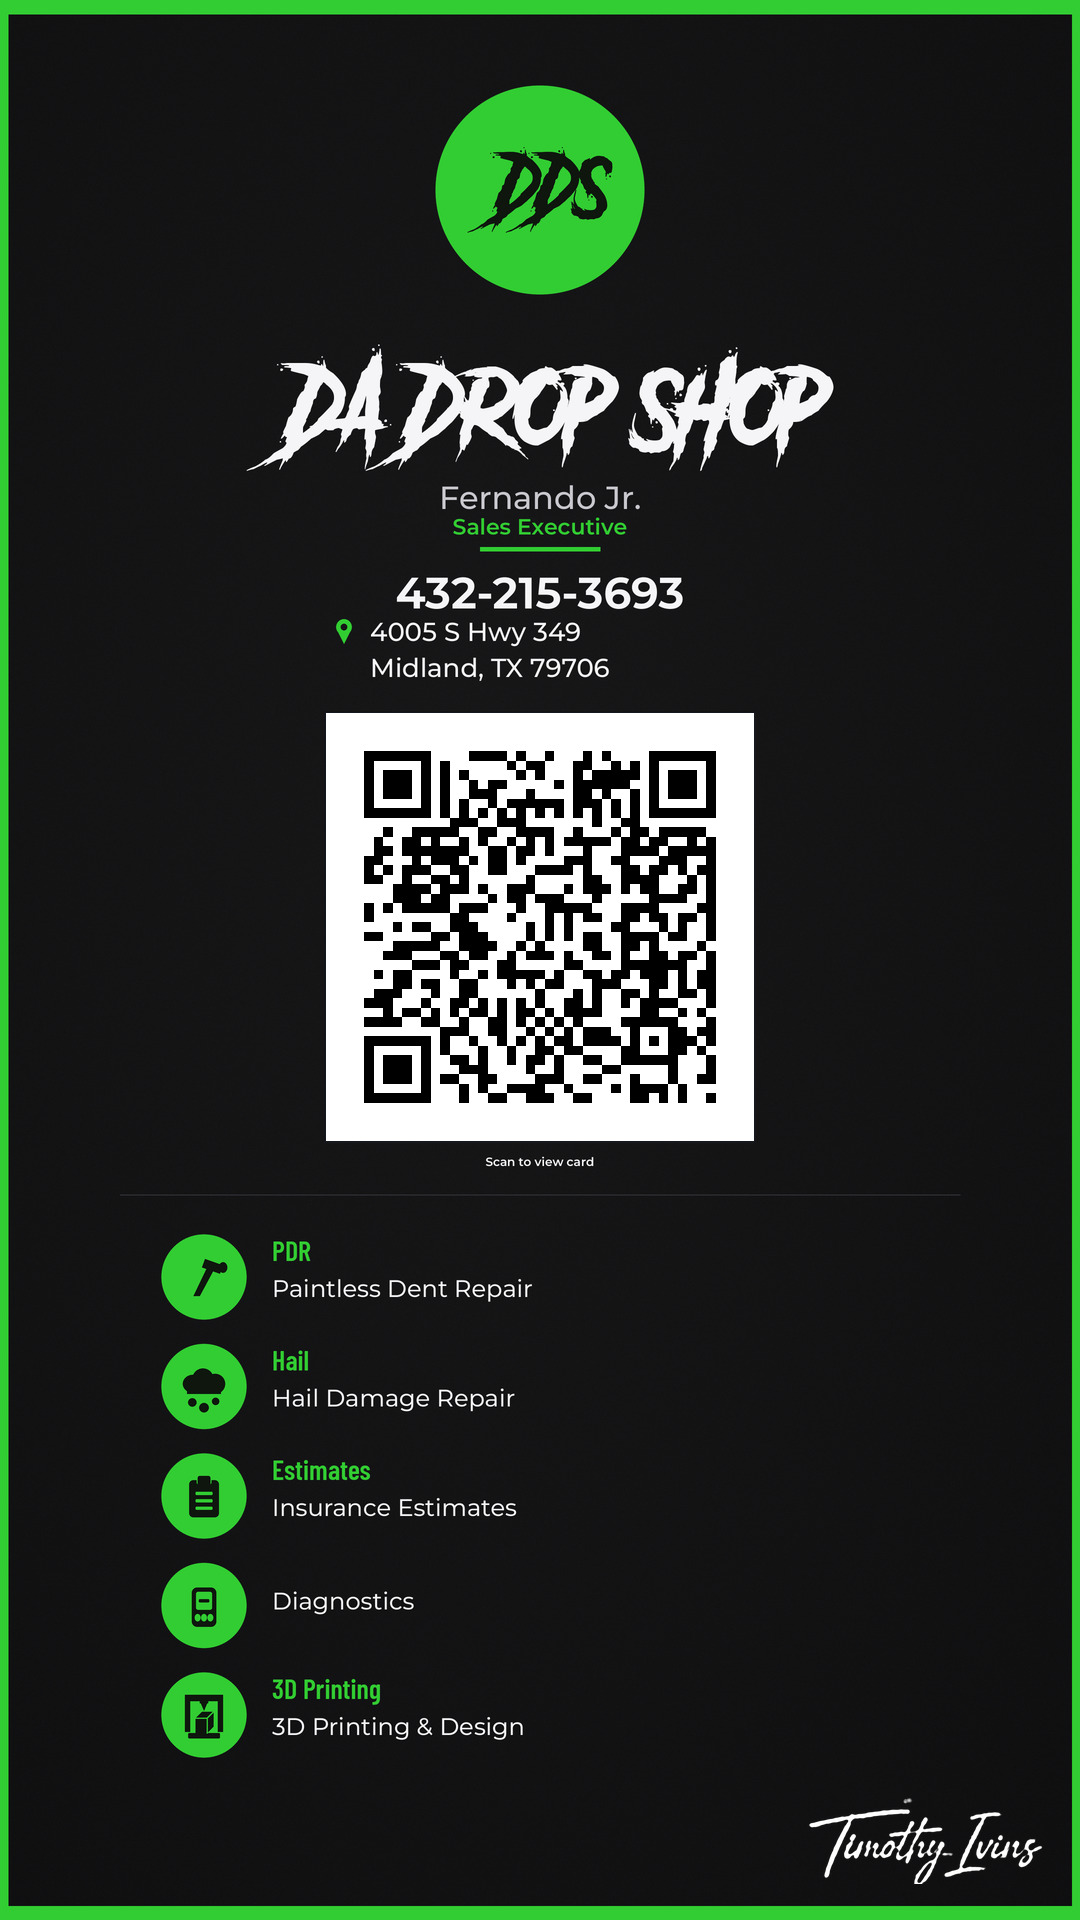
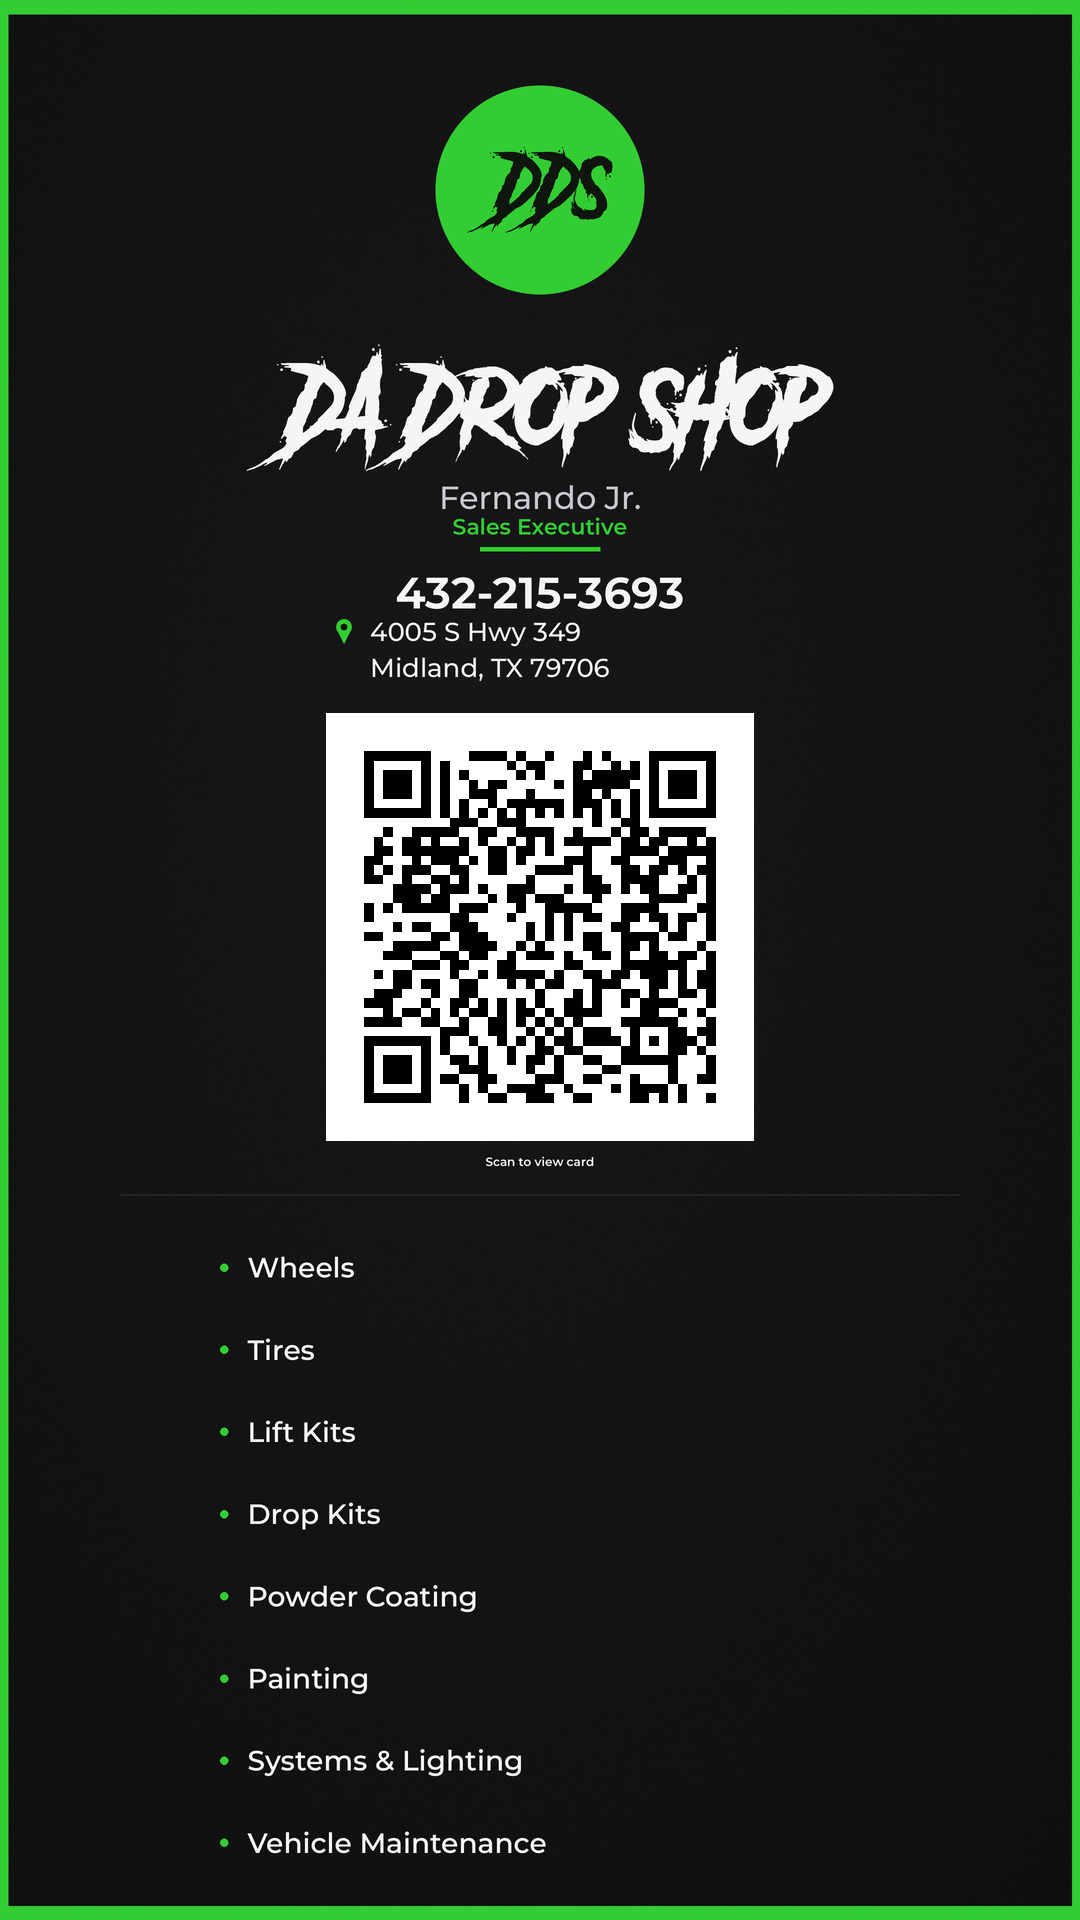
Update Fernando Jr. card: new services under the QR, no signature
Services are now wheels, tires, lift kits, drop kits, powder coating, painting, systems and lighting, and vehicle maintenance.

diff --git a/index.html b/index.html
@@ -5,7 +5,7 @@
 <meta name="viewport" content="width=device-width, initial-scale=1, viewport-fit=cover">
 <meta name="author" content="Timothy Ivins">
 <meta name="copyright" content="© 2026 Timothy Ivins">
-<meta name="description" content="Digital business card for Da Drop Shop, Fernando Jr., Sales Executive. Services: PDR paintless dent repair, hail damage repair, insurance estimates, diagnostics, and 3D printing and design. Design by Timothy Ivins.">
+<meta name="description" content="Digital business card for Da Drop Shop, Fernando Jr., Sales Executive. Services: wheels, tires, lift kits, drop kits, powder coating, painting, systems and lighting, and vehicle maintenance. Design by Timothy Ivins.">
 <meta name="theme-color" content="#32CD32">
 <title>Da Drop Shop - Fernando Jr.</title>
 <link rel="canonical" href="https://fernsjr.github.io/dadropshop-card/">
@@ -14,7 +14,7 @@
 <meta property="og:type" content="website">
 <meta property="og:site_name" content="Da Drop Shop">
 <meta property="og:title" content="Da Drop Shop - Fernando Jr., Sales Executive">
-<meta property="og:description" content="Sales Executive at Da Drop Shop. Paintless Dent Repair, hail damage, insurance estimates, diagnostics, and 3D printing and design. Midland, TX.">
+<meta property="og:description" content="Sales Executive at Da Drop Shop. Wheels, tires, lift kits, drop kits, powder coating, painting, systems and lighting, and vehicle maintenance. Midland, TX.">
 <meta property="og:url" content="https://fernsjr.github.io/dadropshop-card/">
 <meta property="og:image" content="https://fernsjr.github.io/dadropshop-card/og-image.jpg">
 <meta property="og:image:alt" content="Da Drop Shop business card, Fernando Jr., Sales Executive">
@@ -22,7 +22,7 @@
 <meta property="og:image:height" content="630">
 <meta name="twitter:card" content="summary_large_image">
 <meta name="twitter:title" content="Da Drop Shop - Fernando Jr., Sales Executive">
-<meta name="twitter:description" content="Sales Executive at Da Drop Shop. Paintless Dent Repair, hail damage, insurance estimates, diagnostics, and 3D printing and design. Midland, TX.">
+<meta name="twitter:description" content="Sales Executive at Da Drop Shop. Wheels, tires, lift kits, drop kits, powder coating, painting, systems and lighting, and vehicle maintenance. Midland, TX.">
 <meta name="twitter:image" content="https://fernsjr.github.io/dadropshop-card/og-image.jpg">
 <style>
 * { box-sizing: border-box; margin: 0; padding: 0; }
@@ -71,7 +71,32 @@ html, body {
   text-decoration: none;
   font-size: 15px;
   line-height: 1.4;
-  margin: 8px 0 28px;
+  margin: 8px 0 24px;
+}
+.services {
+  list-style: none;
+  text-align: left;
+  max-width: 320px;
+  margin: 0 auto 28px;
+  display: grid;
+  grid-template-columns: 1fr 1fr;
+  gap: 8px 16px;
+}
+.services li {
+  position: relative;
+  padding-left: 16px;
+  font-size: 15px;
+  color: #f5f5f7;
+}
+.services li::before {
+  content: "";
+  position: absolute;
+  left: 0;
+  top: 0.55em;
+  width: 7px;
+  height: 7px;
+  border-radius: 50%;
+  background: #32CD32;
 }
 .more {
   display: grid;
@@ -83,11 +108,6 @@ html, body {
   width: 100%;
   height: auto;
   border-radius: 8px;
-  display: block;
-}
-.sig {
-  width: 140px;
-  margin: 8px 0 0 auto;
   display: block;
 }
 .foot {
@@ -104,11 +124,20 @@ html, body {
     <a class="btn secondary" href="https://maps.google.com/?q=4005+S+Hwy+349,+Midland,+TX+79706">Directions</a>
     <a class="btn secondary" href="FernandoJr.vcf" download="FernandoJr.vcf">Save Contact</a>
     <a class="addr" href="https://maps.google.com/?q=4005+S+Hwy+349,+Midland,+TX+79706">4005 S Hwy 349<br>Midland, TX 79706</a>
+    <ul class="services">
+      <li>Wheels</li>
+      <li>Tires</li>
+      <li>Lift Kits</li>
+      <li>Drop Kits</li>
+      <li>Powder Coating</li>
+      <li>Painting</li>
+      <li>Systems & Lighting</li>
+      <li>Vehicle Maintenance</li>
+    </ul>
     <div class="more">
       <img src="option_A_front.jpg" width="2100" height="1200" alt="Da Drop Shop card front, Fernando Jr.">
       <img src="option_A_back.jpg" width="2100" height="1200" alt="Da Drop Shop card back, Fernando Jr.">
     </div>
-    <img class="sig" src="signature.png" width="240" alt="Timothy Ivins">
     <p class="foot">© 2026 Timothy Ivins</p>
   </main>
 </body>
